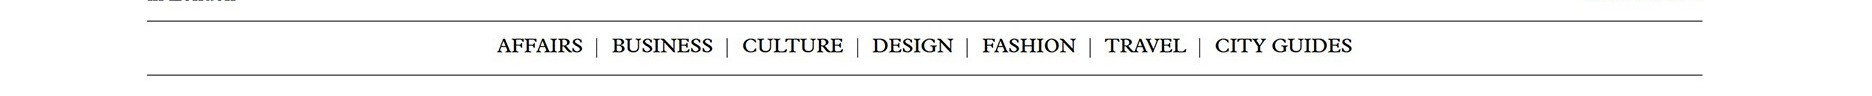
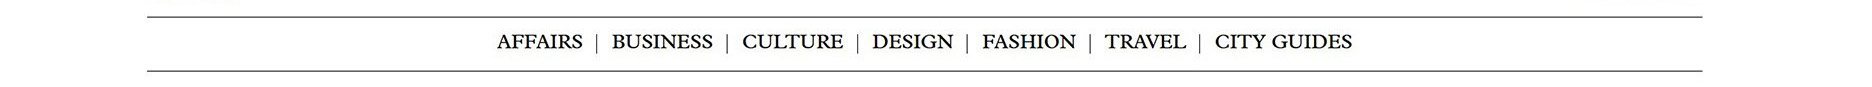
Complete header components

diff --git a/components/index.html b/components/index.html
@@ -34,32 +34,34 @@
     
         <nav class="component--nav">
           <ul class="component--nav__list">
-            <li><a href="@!">Header</a></li>
+            <li><a href="#typography">Typography</a></li>
             <li>&#124;</li>
-            <li><a href="@!">Articles</a></li>
+            <li><a href="#header">Header</a></li>
             <li>&#124;</li>
-            <li><a href="@!">Radio</a></li>
+            <li><a href="#articles">Articles</a></li>
             <li>&#124;</li>
-            <li><a href="@!">Featured</a></li>
+            <li><a href="#radio">Radio</a></li>
             <li>&#124;</li>
-            <li><a href="@!">Travel</a></li>
+            <li><a href="#featured">Featured</a></li>
             <li>&#124;</li>
-            <li><a href="@!">Categories</a></li>
+            <li><a href="#travel">Travel</a></li>
             <li>&#124;</li>
-            <li><a href="@!">Shopping</a></li>
+            <li><a href="#categories">Categories</a></li>
             <li>&#124;</li>
-            <li><a href="@!">Partners</a></li>
+            <li><a href="#shopping">Shopping</a></li>
             <li>&#124;</li>
-            <li><a href="@!">Events</a></li>
+            <li><a href="#partners">Partners</a></li>
             <li>&#124;</li>
-            <li><a href="@!">Subscribe</a></li>
+            <li><a href="#events">Events</a></li>
             <li>&#124;</li>
-            <li><a href="@!">Footer</a></li>
+            <li><a href="#subscribe">Subscribe</a></li>
+            <li>&#124;</li>
+            <li><a href="#footer">Footer</a></li>
           </ul>
         </nav>
 
         <main class="component--main">
-            <div class="component--main__header">
+            <div id="typography" class="component--main__header">
                 <h2 class="component--main__h2">Typography</h2>
             </div> 
 
@@ -127,7 +129,7 @@
                 <p class="component--code__subtitle">code</p>
             </article>
 
-            <div class="component--main__header">
+            <div id="header" class="component--main__header">
                 <h2 class="component--main__h2">Banner</h2>
             </div> 
 
@@ -179,7 +181,7 @@
 
             <article class="component--article">
                 <h3 class="component--article__h3">
-                    .banner--navigation--molecule
+                    .banner--navigation molecule
                 </h3>
                 <div class="component--img">
                     <img src="img/banner--navigation--molecule.jpg" alt="This image is property of Monocle">
@@ -204,7 +206,7 @@
 
             <article class="component--article">
                 <h3 class="component--article__h3">
-                    .banner--utility--molecule
+                    .banner--utility molecule
                 </h3>
                 <div class="component--img">
                     <img src="img/banner--utility--molecule.jpg" alt="This image is property of Monocle">
@@ -275,6 +277,104 @@
                 </div>
                 <p class="component--code__subtitle">code</p>
             </article>
+
+            <div class="component--main__header">
+                <h2 class="component--main__h2">Header</h2>
+            </div> 
+
+            <article class="component--article">
+                <h3 class="component--article__h3">
+                    .header atoms
+                </h3>
+                <div class="component--img">
+                    <img src="img/header--atom__a.jpg" alt="This image is property of Monocle">
+                    <img src="img/header--atom__c.jpg" alt="This image is property of Monocle">
+                </div>
+                <p class="component--img__subtitle">img</p>
+                <div class="component--code">
+                    <div class="header--atoms">                   
+                        <div class="header--atom__a">
+                            <img src="img/header--currently--edited.webp" alt="This image is property of Monocle">
+                            <p>
+                                Currently being edited in London
+                            </p>
+                        </div>
+                        <div class="header--atom__c">
+                            <img src="img/header--illustration.webp" alt="This image is property of Monocle">                            <p>
+                                Daily inbox intelligence from Monocle
+                            </p>
+                        </div>
+                    </div>
+                </div>
+                <p class="component--code__subtitle">code</p>
+            </article>
+
+            <article class="component--article">
+                <h3 class="component--article__h3">
+                    .header molecule
+                </h3>
+                <div class="component--img">
+                    <img src="img/header.jpg" alt="This image is property of Monocle">
+                </div>
+                <p class="component--img__subtitle">img</p>
+                <div class="component--code">
+                    <div class="header">                   
+                        <div class="header--atom__a">
+                            <img src="img/header--currently--edited.webp" alt="This image is property of Monocle">
+                            <p>
+                                Currently being edited in London
+                            </p>
+                        </div>
+                        <img src="img/monocle-title.svg" alt="This image is property of Monocle">
+                        <div class="header--atom__c">
+                            <img src="img/header--illustration.webp" alt="This image is property of Monocle">                            <p>
+                                Daily inbox intelligence from Monocle
+                            </p>
+                        </div>
+                    </div>
+                </div>
+                <p class="component--code__subtitle">code</p>
+            </article>
+
+            <div class="component--main__header">
+                <h2 class="component--main__h2">Navigation</h2>
+            </div> 
+
+            <article class="component--article">
+                <h3 class="component--article__h3">
+                    .nav atoms
+                </h3>
+                <div class="component--img">
+                    <img src="img/nav.jpg" alt="This image is property of Monocle">
+                </div>
+                <p class="component--img__subtitle">img</p>
+                <div class="component--code">
+                    <div class="nav">                   
+                        <ul class="nav--atom">
+                            <li><a href="@!">Affairs</a></li>
+                            <li>&#124;</li>
+                            <li><a href="@!">Business</a></li>
+                            <li>&#124;</li>
+                            <li><a href="@!">Culture</a></li>
+                            <li>&#124;</li>
+                            <li><a href="@!">Design</a></li>
+                            <li>&#124;</li>
+                            <li><a href="@!">Fashion</a></li>
+                            <li>&#124;</li>
+                            <li><a href="@!">Travel</a></li>
+                            <li>&#124;</li>
+                            <li><a href="@!">City Guides</a></li>
+                        </ul>
+                    </div>
+                </div>
+                <p class="component--code__subtitle">code</p>
+            </article>
+
+
+
+
+
+
 
         </main>
     </div>

diff --git a/css/style.css b/css/style.css
@@ -34,10 +34,6 @@ body {
   line-height: 1.444;
   font-variant-numeric: oldstyle-nums;
 }
-h3 {
-  /* font-size: 1.25rem;
-  line-height: 1.25; */
-}
 img {
   max-width: 100%;
   display: block;
@@ -111,7 +107,7 @@ img {
   justify-content: center;
   padding: 0;
   gap: .5rem;
-  font-size: 1rem;
+  font-size: .9rem;
   margin: 0;
 }
 .component--nav__list a {
@@ -323,4 +319,72 @@ img {
 /**
 * Header
 **/
+.header {
+  display: flex;
+  justify-content: space-between;
+}
+.header--atoms {
+  display: flex;
+}
+.header--atom__a {
+  max-width: 12rem;
+  margin: 0.625rem 0;
+}
+.header--atom__a p {
+  margin: 0;
+}
+.header--atom__a img {
+  width: 60%;
+}
+.header img {
+  max-width: 44rem;
+}
+.header--atom__c {
+  max-width: 12rem;
+  margin: 0.625rem 0;
+  text-align: right;
+}
+.header--atom__c p {
+  margin: 0;
+}
+.header--atom__c img {
+  width: 65%;
+  margin-left: auto;
+}
 
+/**
+* Nav
+**/
+.nav--atom {
+  display: flex;
+  flex-wrap: wrap;
+  list-style-type: none;
+  text-transform: uppercase;
+  text-align: center;
+  font-family: serif;
+  border-top: 1px solid var(--black);
+  border-bottom: 1px solid var(--black);
+  justify-content: center;
+  color: var(--black);
+  gap: 0.5rem;
+  }
+.nav--atom {
+  padding: .625rem;
+  margin: 0;
+  padding-left: 0;
+}
+.nav--atom a {
+  text-decoration: none;
+  color: var(--black);
+  font-weight: 600;
+  font-size: 1rem;
+  padding: 0;
+  }
+.nav--atom a:hover {
+  text-decoration: underline;
+  text-decoration-thickness: 1px;
+  }
+
+/**
+* Article
+**/
